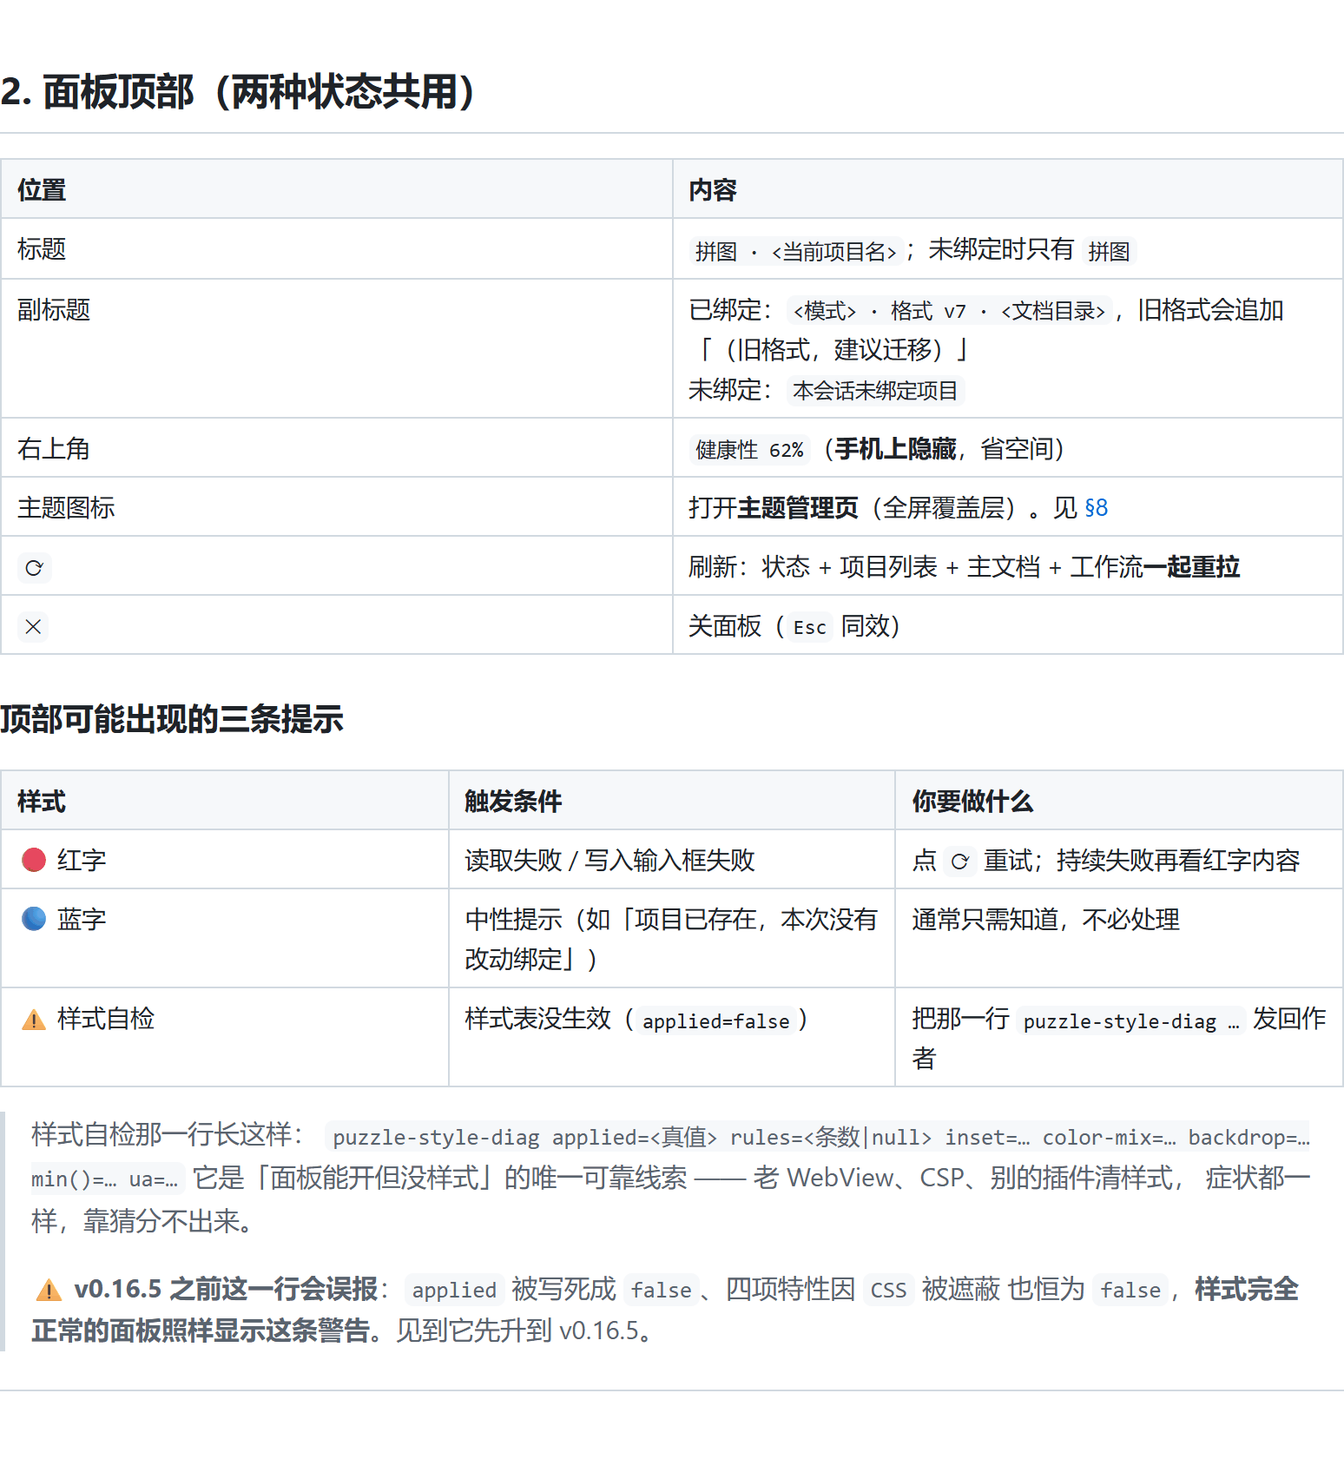
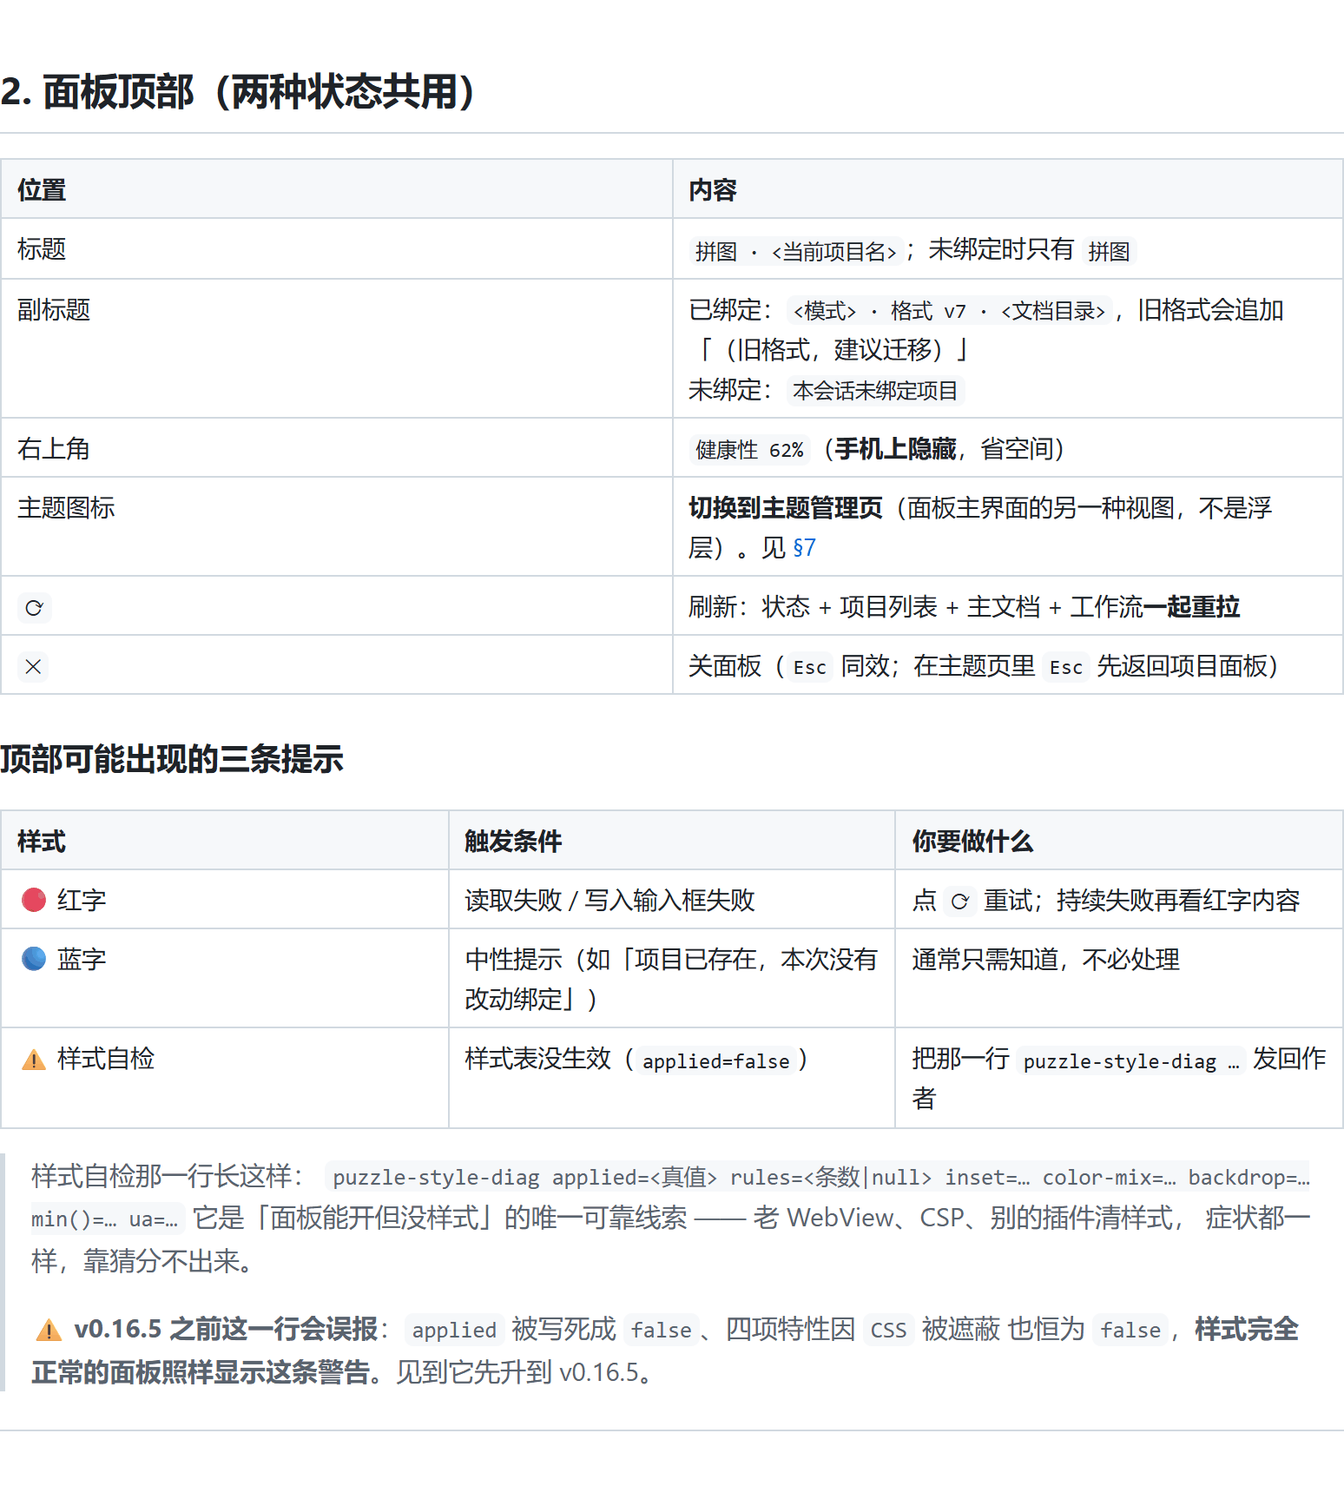
feat(panel): 删掉面板遮罩；主题页改为主界面切换而非第二层浮层
用户两条原话：「打开面板的遮罩删掉」「换成主题页改为直接切换原本的主界面」。
两条是同一类问题：屏幕上不该同时出现两层「面板」。

① 遮罩：.dshpz-backdrop 不再压暗（去掉 rgba(0,0,0,.45)），只保留
   「全屏居中 + 点外部关闭」。内联兜底里那句 background 也一起删——
   只改样式表、兜底又写回来是假修。
② 主题页：原先是一层 .dshpz-tlayer 全屏覆盖层压在面板之上（带 clip-path
   从图标生长的动画），于是同时存在两套玻璃框、两个关闭按钮、两级 Esc。
   现在它复用 .dshpz-panel、替换三栏主体，与主界面共用同一层 backdrop，
   面板从头到尾只有一层。随之删掉 tlayer/tpanel/tgrow 与 themeOrigin。
   顶栏那颗「关闭主题」改成「← 返回」（两个 × 会让人分不清哪个关面板）。

测试：20-client 新增两条回归断言（数层数 + 查底色），两处变异验证均红
（加回 rgba / 外面再包一层 panel）。UI.md §2 与 §7 同步改口并重渲染教程图。

npm test 全绿：60+47+7+51+17+36+12+5；跨插件握手 18/0。

diff --git a/lib/client.js b/lib/client.js
@@ -571,14 +571,6 @@ window.__ModuleLoader__.load({
        */
       themeCss: '',
       themeCurrent: '',
-      /**
-       * 主题页里「从图标生长」的动画起点（`{x,y}`，图标中心坐标）。
-       *
-       * 为什么要把坐标存进 store：全屏层的 `transform-origin` 必须指向那颗图标，
-       * 而图标与层分属两个 Slot（按钮 / 面板），拿不到彼此的 DOM 引用。
-       * 点开时量一次图标位置存下来，层用它做 `clip-path` 生长动画的圆心。
-       */
-      themeOrigin: null,
     }
     var listeners = new Set()
 
@@ -1809,7 +1801,12 @@ window.__ModuleLoader__.load({
       // 三栏网格（264 + 1fr + 424）就被塞进一个内容宽的窄框里 → **列与列重叠**。
       // 实测症状正是「面板缩在左上角、文字互相压着、宿主 UI 透出来」。
       // 所以这里一律用**长手写 top/right/bottom/left**，不用 inset 简写。
-      '.dshpz-backdrop{position:fixed;top:0;right:0;bottom:0;left:0;background:rgba(0,0,0,.45);pointer-events:auto;display:flex;align-items:center;justify-content:center;padding:24px;z-index:40;animation:dshpz-fade var(--dshpz-dur-in) var(--dshpz-ease-out)}',
+      // **没有遮罩底色**（v0.27.1，用户裁定「打开面板的遮罩删掉」）：这一层现在只做
+      // 「居中 + 点外部关闭」的定位与命中，不再压暗宿主 UI——面板自己的玻璃底
+      // （`--dshpz-glass` + `backdrop-filter`）已经保证可读性，那层黑是多余的。
+      // 注意它**仍是全屏且 `pointer-events:auto`**：点面板外面一下＝关面板（原行为不变），
+      // 所以「看起来能点宿主、其实被吃掉一次点击」这件事与改动前一致，不是新问题。
+      '.dshpz-backdrop{position:fixed;top:0;right:0;bottom:0;left:0;pointer-events:auto;display:flex;align-items:center;justify-content:center;padding:24px;z-index:40;animation:dshpz-fade var(--dshpz-dur-in) var(--dshpz-ease-out)}',
       '@keyframes dshpz-fade{from{opacity:0}to{opacity:1}}',
       '@keyframes dshpz-rise{from{opacity:0;transform:translateY(10px) scale(.985)}to{opacity:1;transform:none}}',
       '@keyframes dshpz-grow{from{transform:scaleX(0)}}',
@@ -2059,18 +2056,17 @@ window.__ModuleLoader__.load({
       /* ------------------------------ 主题管理层 ------------------------------ */
 
       /**
-       * 主题层是**面板之内的全屏覆盖层**，不是新 Slot（理由见 `themeLayer` 的注释）。
+       * 主题管理**不是浮层，而是面板主界面的一次切换**（v0.27.1，用户裁定
+       * 「换成主题页改为直接切换原本的主界面」）。
        *
-       * 「从图标生长」的实现：`clip-path: circle(0 at 图标中心)` → `circle(140vmax at ...)`。
-       * 半径用 `140vmax`（视口长边的 1.4 倍）而不是算对角线：纯 CSS 无法读视口对角线，
-       * 而这个值在任何比例下都能盖满，且不需要 JS 参与。
-       * 圆心从 `--dshpz-tx/ty` 取（JS 在点击时量一次图标中心），拿不到就退回居中。
+       * 原先它是一层 `.dshpz-tlayer` 全屏覆盖层压在面板之上（还带 `clip-path` 生长动画），
+       * 于是同一个「面板」概念叠了两层玻璃框、两个关闭按钮、两级 Esc。
+       * 现在主题页复用 `.dshpz-panel` 外壳、**替换**三栏主体：点主题图标 = 切到主题页，
+       * 点返回（或 Esc）= 切回主界面。面板本身从头到尾只有一层。
+       *
+       * 随之删掉的：`.dshpz-tlayer` / `.dshpz-tpanel` / `@keyframes dshpz-tgrow`
+       * 与 `themeOrigin`（生长动画的圆心）——它们只服务于那层已经不存在的浮层。
        */
-      '.dshpz-tlayer{position:fixed;top:0;right:0;bottom:0;left:0;z-index:60;display:flex;align-items:center;justify-content:center;padding:24px;background:rgba(0,0,0,.55);animation:dshpz-fade var(--dshpz-dur-in) var(--dshpz-ease-out)}',
-      '.dshpz-tlayer[data-grow="1"]{animation:dshpz-tgrow var(--dshpz-dur-in) var(--dshpz-ease-out)}',
-      '@keyframes dshpz-tgrow{from{clip-path:circle(0px at var(--dshpz-tx,50%) var(--dshpz-ty,50%))}to{clip-path:circle(140vmax at var(--dshpz-tx,50%) var(--dshpz-ty,50%))}}',
-      '.dshpz-tpanel{position:relative;display:flex;flex-direction:column;overflow:hidden;width:100%;max-width:980px;max-height:86vh;width:min(980px,100%);max-height:min(86vh,880px);background-color:var(--dshpz-glass);background-image:var(--dshpz-glass-sheen);color:var(--dshpz-label-1);border:1px solid var(--dshpz-border-2);border-radius:var(--dshpz-radius-lg);box-shadow:var(--dshpz-shadow);font-family:var(--dshpz-font-ui);font-size:13px;animation:dshpz-rise var(--dshpz-dur-in) var(--dshpz-ease-out)}',
-      '.dshpz-tpanel::after{content:"";position:absolute;left:0;right:0;top:0;height:1px;pointer-events:none;background:linear-gradient(90deg,transparent,var(--dshpz-accent),transparent);opacity:.75}',
       '.dshpz-thead{flex:0 0 auto;display:flex;align-items:center;gap:8px;padding:14px 18px;border-bottom:1px solid var(--dshpz-border-1);background:linear-gradient(180deg,color-mix(in srgb,var(--dshpz-accent) 7%,transparent),transparent)}',
       '.dshpz-tlogo{flex:0 0 auto;display:flex;align-items:center;justify-content:center;width:30px;height:30px;border-radius:9px;color:var(--dshpz-on-accent);background:linear-gradient(135deg,var(--dshpz-accent-hi),var(--dshpz-accent))}',
       '.dshpz-tbody{flex:1 1 auto;overflow-y:auto;overscroll-behavior:contain;padding:14px 18px}',
@@ -2086,9 +2082,10 @@ window.__ModuleLoader__.load({
       '.dshpz-tdesc{font-size:11px;line-height:1.5;color:var(--dshpz-label-2);margin-top:4px}',
       '.dshpz-tacts{display:flex;gap:6px;flex-wrap:wrap}',
       '.dshpz-tfoot{flex:0 0 auto;padding:10px 18px;border-top:1px solid var(--dshpz-border-1);display:flex;flex-direction:column;gap:3px}',
-      '@media (max-width:900px){.dshpz-tlayer{padding:10px}.dshpz-tpanel{max-height:92vh;width:100%}.dshpz-tgrid{grid-template-columns:1fr}.dshpz-thead{flex-wrap:wrap}}',
-      // 用户开了「减少动效」就关掉生长动画（只留状态切换本身）——与面板那条同一个口径。
-      '@media (prefers-reduced-motion:reduce){.dshpz-tlayer,.dshpz-tlayer[data-grow="1"],.dshpz-tpanel{animation:none!important}}',
+      // 主题页现在就在面板外壳里，窄屏规则只收拾它自己那几块；
+      // `.dshpz-tpanel` / `.dshpz-tlayer` 已随浮层一起删除，这里不能再引用它们
+      // （引用了也不会报错，但那条规则永远是死的——本仓记过「守卫须能抓到漂移」）。
+      '@media (max-width:900px){.dshpz-tgrid{grid-template-columns:1fr}.dshpz-thead{flex-wrap:wrap}}',
 
       /* --------------------------- 减少动效（无障碍） --------------------------- */
       // 尊重系统设置：用户开了「减少动态效果」就全部关掉，只保留状态切换本身。
@@ -2183,7 +2180,17 @@ window.__ModuleLoader__.load({
      * 渲染结果，但清单里有 `accent` 一个色值——足够让每张卡「一眼看出是什么调」，
      * 又不至于为了预览去解析 CSS。
      */
-    function themeLayer(view) {
+    /**
+     * 主题管理页 —— **面板主界面的一种视图**，不是压在面板上的浮层（v0.27.1）。
+     *
+     * 用户原话：「换成主题页改为直接切换原本的主界面」。
+     * 改动前它是一层 `.dshpz-tlayer` 全屏覆盖层（带 `clip-path` 从图标生长的动画），
+     * 于是屏幕上同时存在两套玻璃框、两个关闭按钮、两级 Esc——同一个「面板」叠了两层。
+     * 现在它复用面板外壳，**替换**三栏主体：点图标进来，点「返回」或 Esc 回去。
+     *
+     * 返回值就是**整个 `.dshpz-panel`**（与 `panelBody` 同层级），由 `Panel` 二选一渲染。
+     */
+    function themePage(view) {
       var sessionId = view.state.sessionId
       var list = view.state.themeList
       var data = view.state.data
@@ -2194,7 +2201,6 @@ window.__ModuleLoader__.load({
       var installedMap = {}
       for (var i = 0; i < installed.length; i++) installedMap[installed[i].id] = installed[i]
       var busy = view.state.themeBusy
-      var origin = view.state.themeOrigin
 
       var remote = list !== null && list !== undefined && Array.isArray(list.themes) ? list.themes : null
       var loading = list !== null && list !== undefined && list.loading === true
@@ -2260,9 +2266,20 @@ window.__ModuleLoader__.load({
         h(
           'button',
           {
-            className: 'dshpz-close',
-            title: '关闭主题（Esc）',
+            className: 'dshpz-act',
+            // 语义是**返回**而不是「关闭」：主题页是主界面的一种视图，
+            // 关掉它等于关掉整个面板，那是右上角那颗 × 的事（用户会分不清）。
+            title: '返回项目面板（Esc）',
             onClick: function () { setState({ themeOpen: false, themeNotice: null, themeError: null }) },
+          },
+          h('span', null, '← 返回'),
+        ),
+        h(
+          'button',
+          {
+            className: 'dshpz-close',
+            title: '关闭面板（Esc 先返回项目面板）',
+            onClick: function () { setState({ open: false, themeOpen: false, detail: null, detailName: null, themeNotice: null, themeError: null }) },
           },
           icon('close', 15, { weight: 'bold' }),
         ),
@@ -2370,24 +2387,18 @@ window.__ModuleLoader__.load({
           '主题只能是 CSS（不允许 JS / 外部请求）；下载后按清单里的 sha256 校验，不符即拒绝。'),
       )
 
-      var layerStyle = {}
-      if (origin !== null && origin !== undefined) {
-        // 「从图标生长」（用户裁定最帅的那个）：`clip-path` 圆从图标中心扩散到盖满全屏。
-        // 圆心由 `--dshpz-tx/ty` 交给 CSS，动画本身写在样式表里（这里只给坐标）。
-        layerStyle = {
-          '--dshpz-tx': origin.x + 'px',
-          '--dshpz-ty': origin.y + 'px',
-        }
-      }
-
+      // 与 `panelBody` 同层级：主题页**就是**面板主体，不再是压在它上面的第二层。
+      // 所以这里只返回 `.dshpz-panel` 外壳（玻璃底、网格纹、顶部高光都在
+      // `.dshpz-panel` 与它的 `::before/::after` 上，复用即可）；
+      // 外面那层负责「全屏居中 + 点外部关闭」的 `.dshpz-backdrop` 由 `Panel` 统一提供，
+      // 两个视图共用一层——这正是「不再叠两层」的落点。
       return h(
         'div',
-        {
-          className: 'dshpz-tlayer',
-          'data-grow': origin !== null && origin !== undefined ? '1' : '0',
-          style: layerStyle,
-        },
-        h('div', { className: 'dshpz-tpanel' }, head, notices, h('div', { className: 'dshpz-tbody' }, grid), foot),
+        { className: 'dshpz-panel' },
+        head,
+        notices,
+        h('div', { className: 'dshpz-tbody' }, grid),
+        foot,
       )
     }
 
@@ -3195,28 +3206,20 @@ window.__ModuleLoader__.load({
          * 为什么放右上角、在「刷新 / 关闭」左边：那一排已经是「面板级动作」的位置，
          * 主题是同一层级的东西；放在角落而不是当第四栏，是因为它不该常驻占地方。
          *
-         * 点击时**量一次自己的屏幕坐标**存进 `themeOrigin`：主题层的「从图标生长」
-         * 动画要以这颗图标为圆心，而层与图标分属两个组件、拿不到彼此的 DOM 引用。
+         * v0.27.1 起点击是**切换面板主视图**（不再是叠一层全屏浮层），
+         * 所以这里不再量图标坐标——那个 `themeOrigin` 只服务于已删掉的生长动画。
          */
         h(
           'button',
           {
             className: 'dshpz-close',
             'data-on': view.state.themeOpen === true ? '1' : '0',
-            title: '主题：从主题仓库下载并换皮',
-            onClick: function (event) {
-              var origin = null
-              try {
-                var rect = event !== null && event !== undefined && event.currentTarget !== null && event.currentTarget !== undefined
-                  ? event.currentTarget.getBoundingClientRect()
-                  : null
-                if (rect !== null && rect !== undefined) origin = { x: rect.left + rect.width / 2, y: rect.top + rect.height / 2 }
-              } catch (_error) {
-                /* 量不到就退回居中（CSS 里 `--dshpz-tx/ty` 的兜底值就是 50%） */
-              }
-              setState({ themeOpen: true, themeOrigin: origin, themeNotice: null, themeError: null })
-              // 每次打开都重拉清单：主题仓库是外部状态，缓存只该在网络失败时兜底。
-              loadThemes(view.state.sessionId)
+            title: '主题：切换到这个面板的主题页（再点或按 Esc 返回）',
+            onClick: function () {
+              var next = view.state.themeOpen !== true
+              setState({ themeOpen: next, themeNotice: null, themeError: null })
+              // 每次进来都重拉清单：主题仓库是外部状态，缓存只该在网络失败时兜底。
+              if (next) loadThemes(view.state.sessionId)
             },
           },
           icon('grid', 15),
@@ -3850,8 +3853,8 @@ window.__ModuleLoader__.load({
       React.useEffect(function () {
         var onKey = function (event) {
           if (event.key !== 'Escape') return
-          // Esc 先关**最上面那一层**：主题层开着时只关主题层。
-          // 一次 Esc 把两层一起关掉会让人以为面板自己弹回去了。
+          // Esc 先退出**当前视图**：主题页开着时退回项目面板，而不是把面板整个关掉
+          // （一次 Esc 直接关掉面板会让人以为面板自己弹回去了）。
           if (state.themeOpen === true) {
             setState({ themeOpen: false, themeNotice: null, themeError: null })
             return
@@ -3886,33 +3889,42 @@ window.__ModuleLoader__.load({
       )
 
       if (view.state.open !== true) return null
+
+      // **主视图二选一**（v0.27.1）：主题页不再是压在面板上的浮层，而是面板主体的
+      // 另一种内容。两个视图共用**同一层** `.dshpz-backdrop`（负责全屏居中 + 点外部关闭），
+      // 里面各装各的 `.dshpz-panel`——所以屏幕上永远只有一套玻璃框。
+      var themeMode = view.state.themeOpen === true
+
       return h(
         'div',
         {
           className: 'dshpz-backdrop',
           // **内联兜底**（v0.16.2 加的）：万一整张样式表都没生效（老 WebView 丢弃
           // `inset` 简写、CSP 拦掉 <style>、或别的插件把样式清了），
-          // 面板至少还是「全屏遮罩 + 居中」的可用状态，
+          // 面板至少还是「全屏居中」的可用状态，
           // 而不是缩在左上角、文字互相压着。
           //
           // 只内联**没有被 @media 覆盖过**的属性：`padding` 故意不内联，
           // 因为窄屏那条 `@media (max-width:900px)` 会把它改成 10px，
           // 内联会盖掉媒体查询，等于把手机端的边距改坏。
           // 写的值与 `.dshpz-backdrop` 一致，所以样式正常时看不出差别。
+          // **`background` 也故意不写**（v0.27.1）：遮罩已按用户要求删掉，
+          // 内联再写一遍 rgba 就等于「样式表删了、兜底又加回来」，改了个寂寞。
           style: {
             position: 'fixed', top: 0, right: 0, bottom: 0, left: 0,
-            background: 'rgba(0,0,0,.45)', display: 'flex',
+            display: 'flex',
             alignItems: 'center', justifyContent: 'center', zIndex: 40,
           },
+          // 点面板外面＝关整个面板（主题页也一样：那本来就是「退出」的直觉）。
           onClick: function (event) {
-            if (event.target === event.currentTarget) setState({ open: false, detail: null, detailName: null })
+            if (event.target === event.currentTarget) {
+              setState({ open: false, themeOpen: false, detail: null, detailName: null })
+            }
           },
         },
-        // `panelBody` 自己返回 `.dshpz-panel`（主题令牌挂在 `:root` 上），所以这里**不再包一层**：
-        // 多包一层会得到「面板套面板」，玻璃底与网格纹理会叠两次。
-        panelBody(view),
-        // 主题层压在面板之上（同一个覆盖层内），所以关闭顺序天然是「先主题、后面板」。
-        view.state.themeOpen === true ? themeLayer(view) : null,
+        // `panelBody` / `themePage` 各自返回 `.dshpz-panel`（主题令牌挂在 `:root` 上），
+        // 所以这里**不再包一层**：多包一层会得到「面板套面板」，玻璃底与网格纹理会叠两次。
+        themeMode ? themePage(view) : panelBody(view),
       )
     }
 
@@ -4145,7 +4157,7 @@ window.__ModuleLoader__.load({
       themeVars: themeVars,
       THEME: THEME,
       CSS: CSS,
-      themeLayer: themeLayer,
+      themePage: themePage,
       themeCssRejectReason: themeCssRejectReason,
       applyUserTheme: applyUserTheme,
       unbind: unbind,

diff --git a/UI.md b/UI.md
@@ -37,9 +37,9 @@
 | 标题 | `拼图 · <当前项目名>`；未绑定时只有 `拼图` |
 | 副标题 | 已绑定：`<模式> · 格式 v7 · <文档目录>`，旧格式会追加「（旧格式，建议迁移）」<br>未绑定：`本会话未绑定项目` |
 | 右上角 | `健康性 62%`（**手机上隐藏**，省空间） |
-| 主题图标 | 打开**主题管理页**（全屏覆盖层）。见 [§8](#8-主题管理页) |
+| 主题图标 | **切换到主题管理页**（面板主界面的另一种视图，不是浮层）。见 [§7](#7-主题管理页) |
 | `⟳` | 刷新：状态 + 项目列表 + 主文档 + 工作流**一起重拉** |
-| `✕` | 关面板（`Esc` 同效） |
+| `✕` | 关面板（`Esc` 同效；在主题页里 `Esc` 先返回项目面板） |
 
 ### 顶部可能出现的三条提示
 
@@ -292,7 +292,9 @@
 
 ## 7. 主题管理页
 
-面板右上角那颗**主题图标**点开的**全屏覆盖层**（不是新面板，Esc 只关这一层）。
+面板右上角那颗**主题图标**点开的**主界面切换**——它替换面板的三栏主体，不是压在上面的
+第二层浮层（v0.27.1 起；此前是一层全屏覆盖层，会同时出现两套玻璃框与两个关闭按钮）。
+点「← 返回」或按 `Esc` 回到项目面板。**面板本身从头到尾只有一层。**
 主题**不在插件包里**——包里只有代码，皮肤点一下从
 [dsh-puzzle-themes](https://github.com/liancha22/dsh-puzzle-themes) 现取。
 
@@ -301,7 +303,7 @@
 | 顶栏 · 左 | 标题 `主题` + 当前主题（默认皮肤时写「当前：默认皮肤（随宿主明暗）」） |
 | 顶栏 · **恢复默认** | 常驻一颗（不跟列表滚）。回到内置默认皮肤，**不卸载**已下载的主题 |
 | 顶栏 · 刷新列表 | 重新从主题仓库拉清单 |
-| 顶栏 · `✕` | 关主题层（`Esc` 同效） |
+| 顶栏 · `← 返回` | 回到项目面板（`Esc` 同效）。**不是**第二个 `✕`——关整个面板用右上角那颗 |
 | 卡片墙 | 每张卡：主题主色块 + 名字 + 作者/版本 + 一句话说明 |
 | 卡片 · 未装 | 一颗 **「下载并应用」**——下载、校验、落盘、应用，一步到位 |
 | 卡片 · 已装 | **「应用」**（不联网）+ **「卸载」** |
